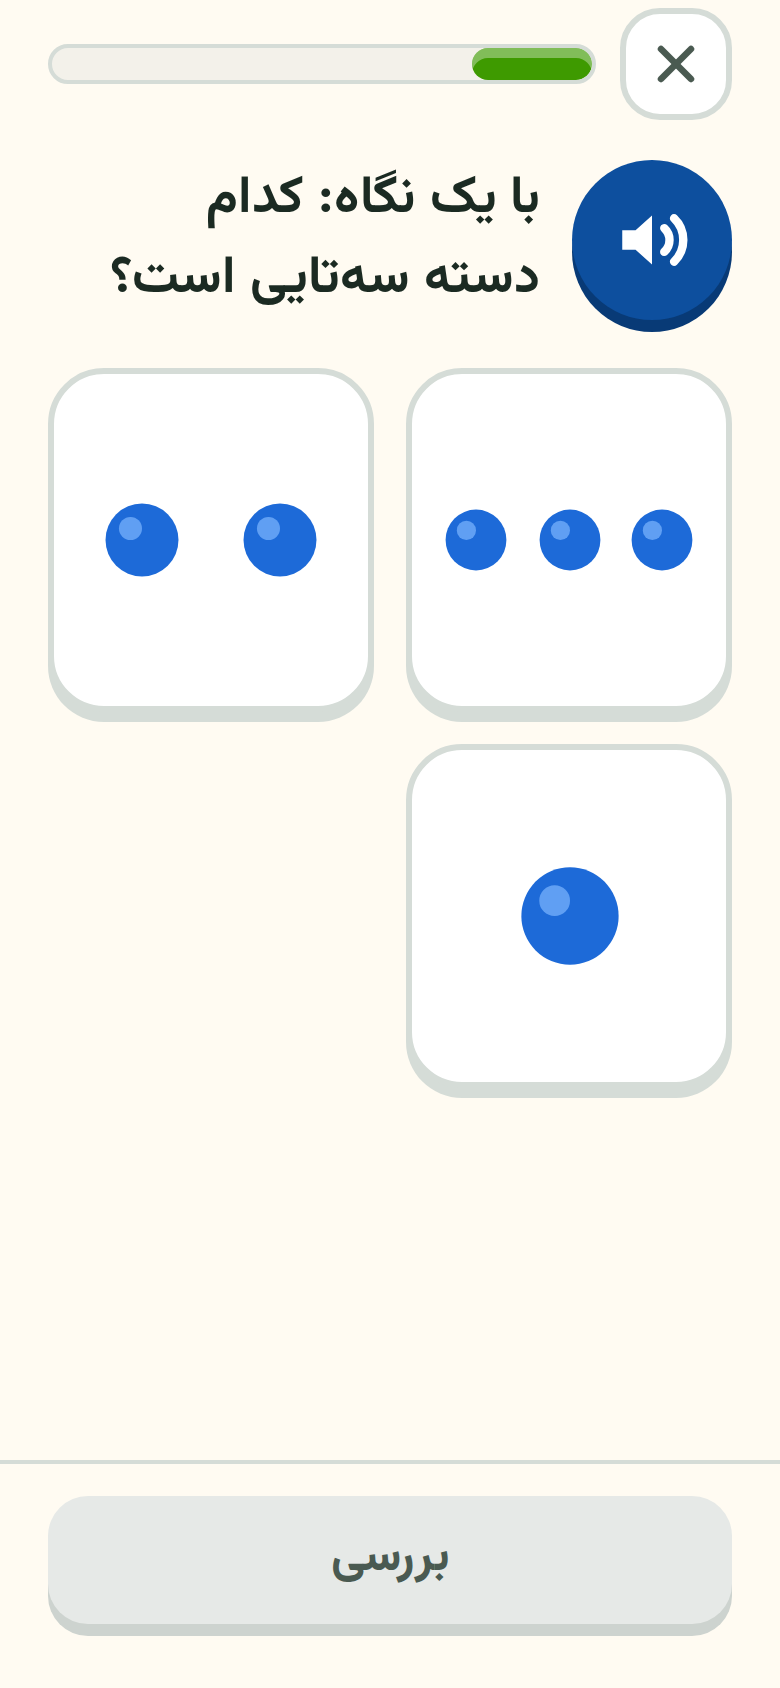
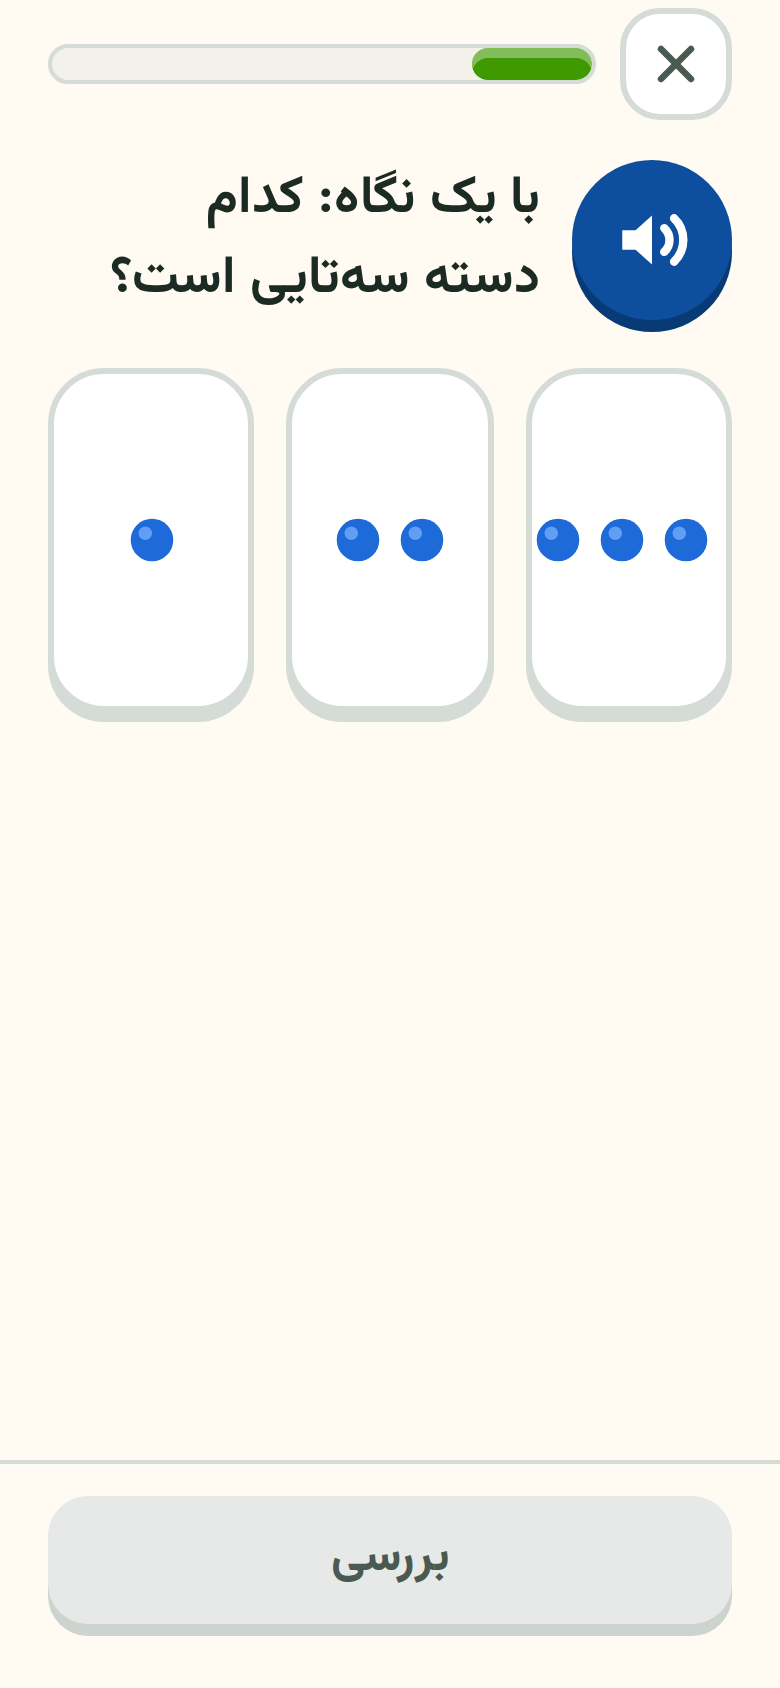
Fix 28px count dots and refresh 390px after-screenshots
Keep one 28px ten-frame size across count cards so dots stay visible, and recapture the affected 390px screens after the design-review layout changes.

Changed region(s): [[0.2769, 0.2156, 0.9538, 0.6777], [0.6462, 0.4929, 0.8, 0.5853], [0.1231, 0.2773, 0.2462, 0.3389]]

diff --git a/app/globals.css b/app/globals.css
@@ -482,7 +482,8 @@ h2,
 .object-choice-card,
 .object-count-card {
   height: 172px;
-  padding: var(--s-3);
+  padding: 6px;
+  place-items: center;
 }
 
 .object-count-card {
@@ -498,25 +499,24 @@ h2,
 }
 
 .object-cluster {
-  --cluster-gap: 4px;
-  --dot: min(28px, calc((100% - 4 * var(--cluster-gap)) / 5));
   display: grid;
-  grid-template-columns: repeat(var(--object-cols, 1), var(--dot));
-  gap: var(--cluster-gap);
+  grid-template-columns: repeat(var(--object-cols, 1), 28px);
+  gap: 4px;
   place-content: center;
   place-items: center;
-  width: 100%;
-  height: 100%;
+  width: max-content;
   max-width: 100%;
-  max-height: 100%;
-  overflow: hidden;
   box-sizing: border-box;
 }
 
+.object-cluster[data-count='10'] {
+  gap: 2px;
+}
+
 .object-cluster > .illus {
-  width: var(--dot);
-  height: var(--dot);
-  max-width: 100%;
+  width: 28px;
+  height: 28px;
+  flex: none;
   aspect-ratio: 1;
 }
 
